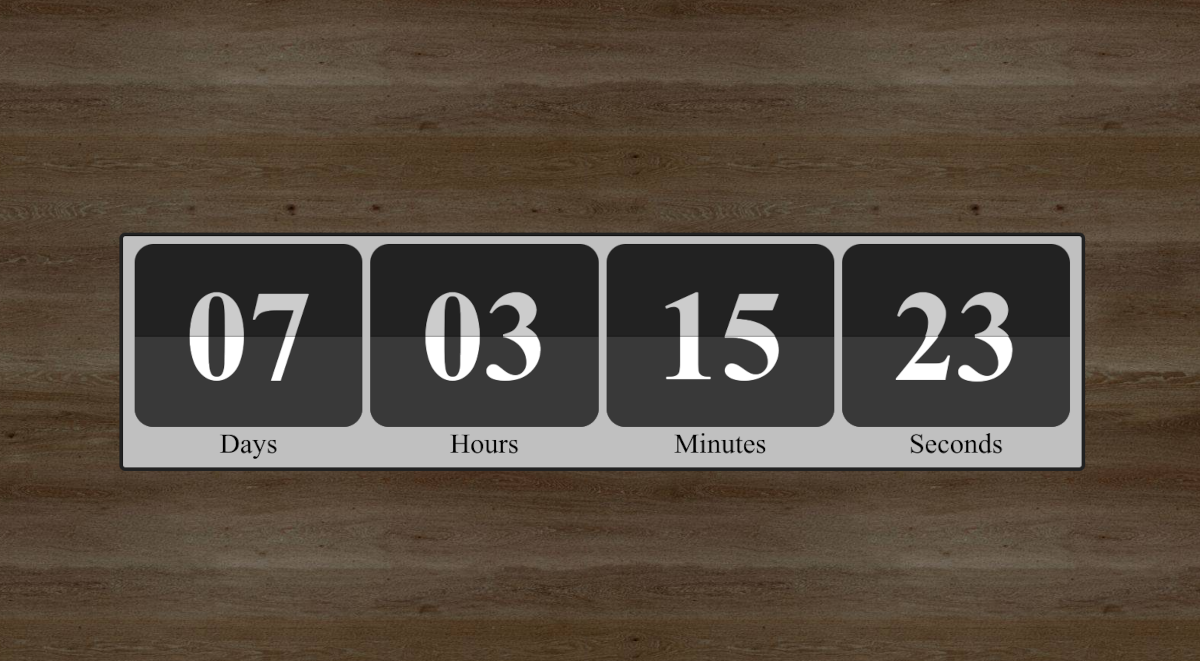
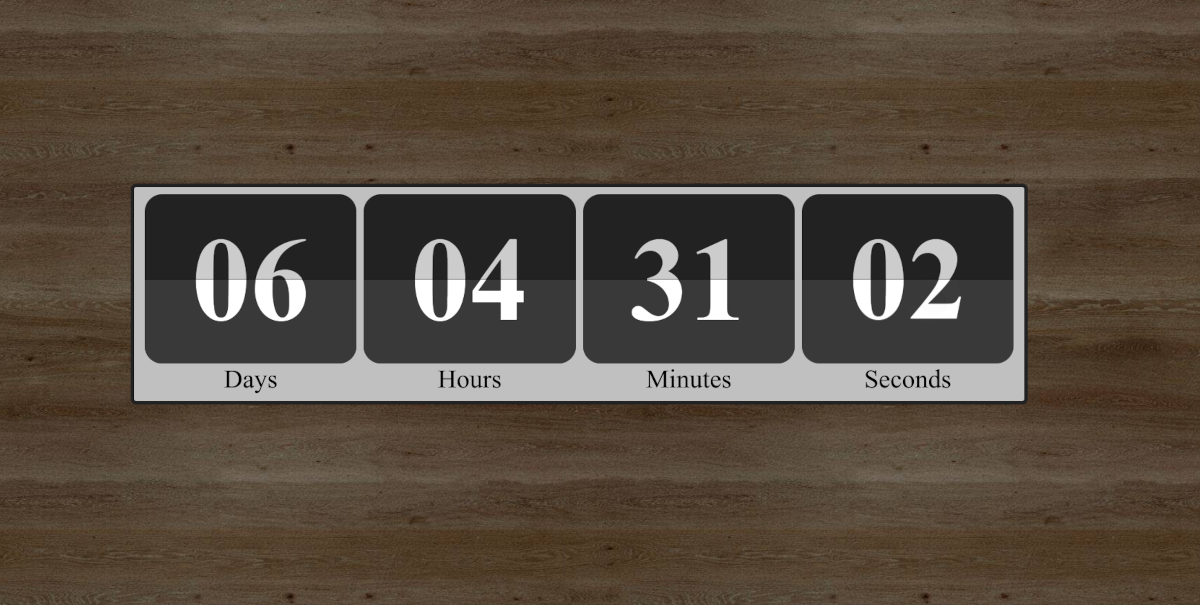
6

diff --git a/index.html b/index.html
@@ -14,7 +14,7 @@
     <meta property="og:type" content="website">
     <meta property="og:title" content="50 - 50">
     <meta property="og:description" content="I'll be launching a project on Feb. 26.  Keep your 👀 here">
-    <meta property="og:image" content="/assets/images/50.png?7">
+    <meta property="og:image" content="/assets/images/50.png?6">
 
     <!-- Twitter Meta Tags -->
     <meta name="twitter:card" content="summary_large_image">
@@ -22,7 +22,7 @@
     <meta property="twitter:url" content="https://50.michaelcaplan.com">
     <meta name="twitter:title" content="50 - 50">
     <meta name="twitter:description" content="I'll be launching a project on Feb. 26.  Keep your 👀 here">
-    <meta name="twitter:image" content="/assets/images/50.png?7">
+    <meta name="twitter:image" content="/assets/images/50.png?6">
 
     
     <!-- The website stylesheet -->
